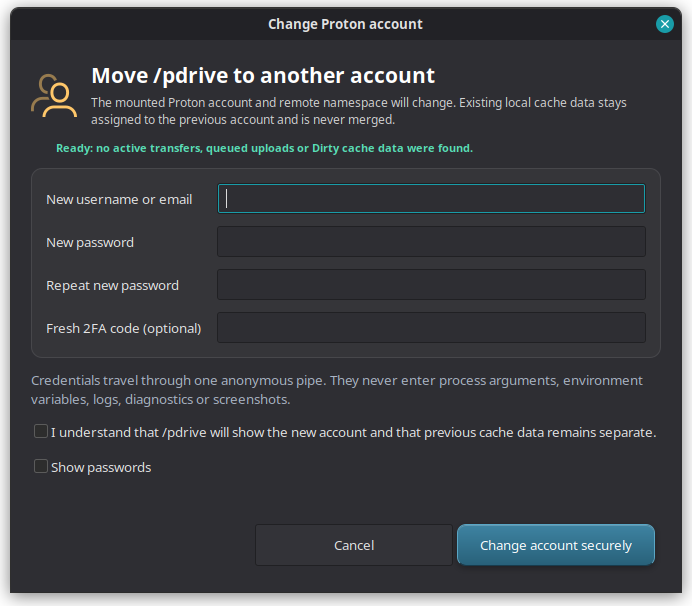
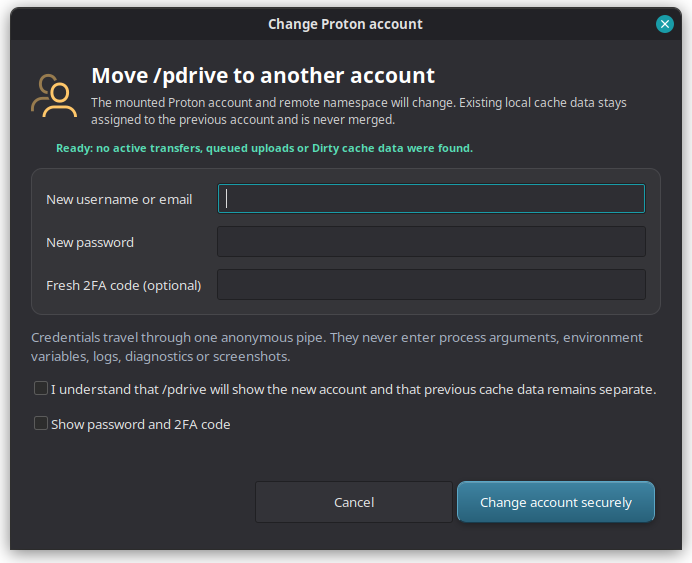
Remove redundant password confirmation

diff --git a/docs/OPERATIONS.md b/docs/OPERATIONS.md
@@ -389,7 +389,7 @@ only its own marked autostart file. A manual menu launch remains visible.
 
 The Preferences **Account** section is a guarded action rather than a saved UI
 preference. **Change Proton account …** accepts a new Proton username or email,
-password, repeated password and an optional fresh six-digit 2FA code. It has no
+password and an optional fresh six-digit 2FA code. It has no
 default credential value and stores none of those inputs in the UI preference
 file. Activation occurs only after isolated authentication, a repeated clean
 preflight and validated remounting. Its persistent effects are the encrypted
@@ -716,7 +716,7 @@ Reauthorization preserves the existing account identity and VFS namespace;
 `pdrive-account-switch --switch` deliberately changes both. The Control Center
 access path is **hamburger menu → Preferences → Account → Change Proton account
 …**. Its full native form accepts the candidate username or email, password,
-repeated password and optional fresh six-digit 2FA code. The explicit checkbox
+and optional fresh six-digit 2FA code. The explicit checkbox
 confirms that `/pdrive` and the Proton remote namespace will change while old
 local cache data remains separate.
 

diff --git a/README.md b/README.md
@@ -115,7 +115,7 @@ are restored automatically.
 <table>
   <tr>
     <td><img src="docs/assets/pdrive-account-settings.png" alt="PDrive Preferences account section with the guarded Change Proton account action"></td>
-    <td><img src="docs/assets/pdrive-account-switch.png" alt="PDrive guarded Proton account-change dialog after a successful safety preflight"></td>
+    <td><img src="docs/assets/pdrive-account-switch.png?v=0.7.7" alt="PDrive guarded Proton account-change dialog after a successful safety preflight"></td>
   </tr>
   <tr>
     <td align="center"><sub>A deliberate account action, separate from contextual reauthorization</sub></td>
